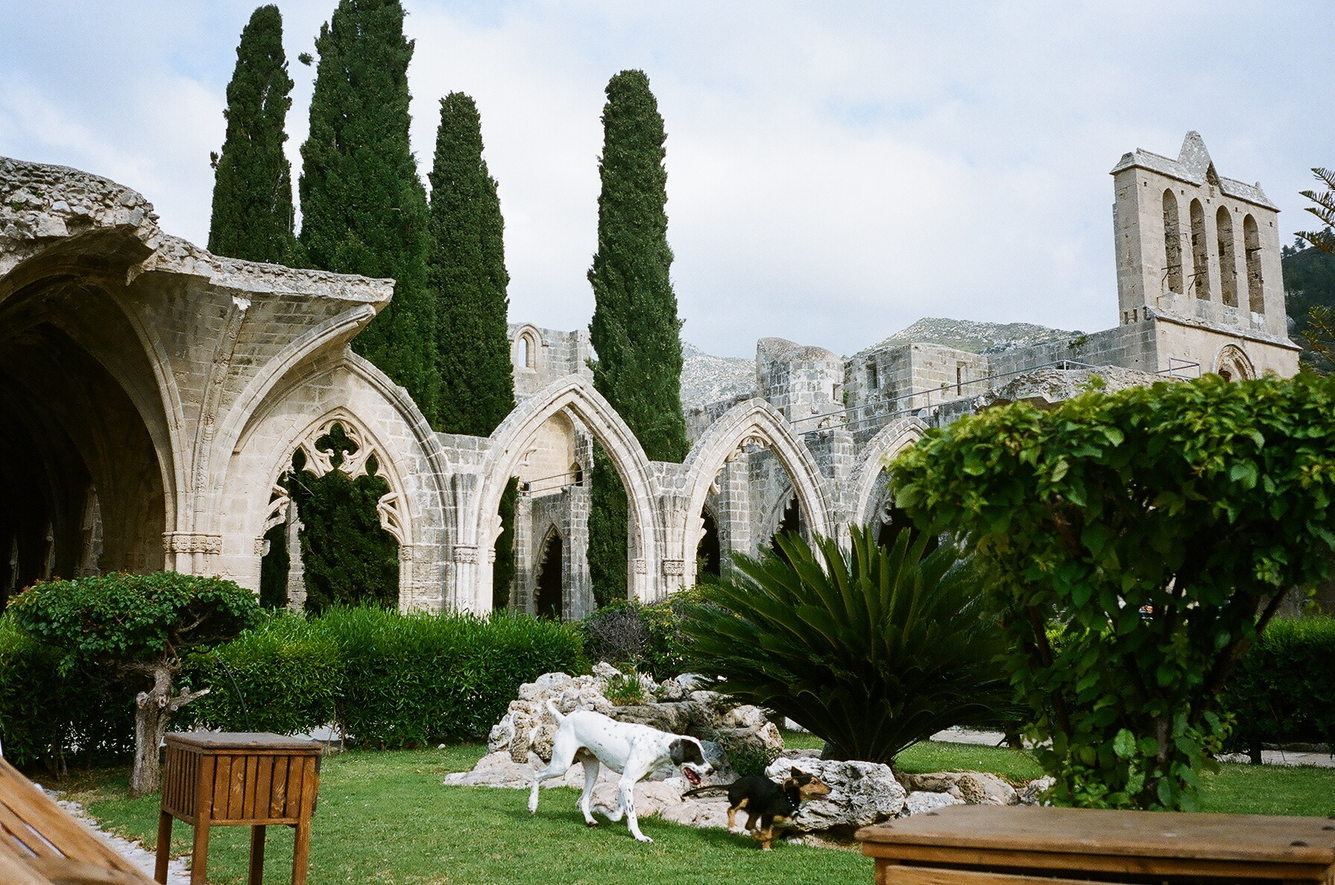
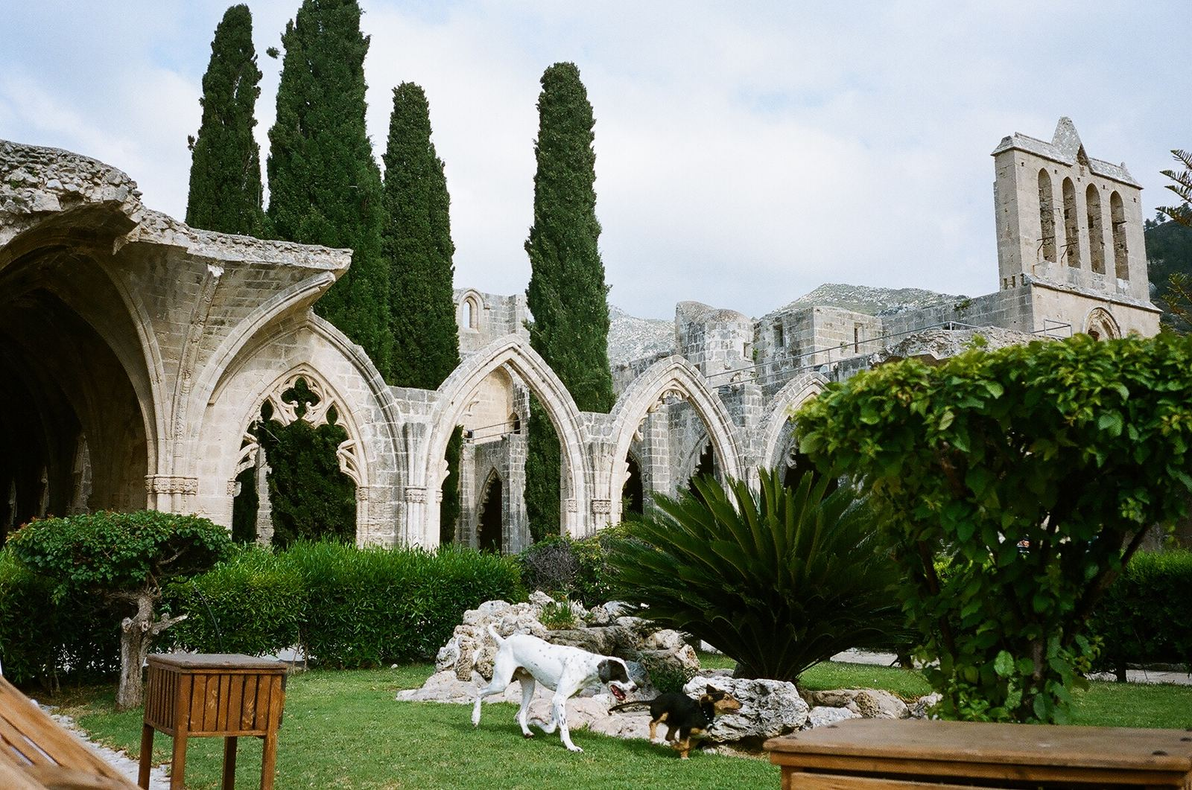
perf: compress oversized images and self-host fonts via next/font
- Resize/recompress hero and strip images (public/images 59 MB -> 4.7 MB)
- Replace render-blocking Google Fonts @import with next/font
- Drop unused script fonts (Pinyon Script, Alex Brush, Allura)

Changed region(s): [[0.2188, 0.7465, 0.25, 0.7776]]

diff --git a/src/app/layout.tsx b/src/app/layout.tsx
@@ -1,9 +1,20 @@
 import type { Metadata } from 'next';
+import { Cormorant_Garamond, Manrope, Great_Vibes } from 'next/font/google';
 import './globals.css';
 import { LanguageProvider } from '@/context/LanguageContext';
 import { Navbar } from '@/components/Navbar';
 import { Footer } from '@/components/Footer';
 import { SITE_URL } from '@/lib/seo';
+
+const cormorant = Cormorant_Garamond({
+  subsets: ['latin', 'latin-ext'],
+  weight: ['300', '400', '500', '600', '700'],
+  style: ['normal', 'italic'],
+  variable: '--nf-cormorant',
+  display: 'swap',
+});
+const manrope = Manrope({ subsets: ['latin', 'latin-ext'], variable: '--nf-manrope', display: 'swap' });
+const greatVibes = Great_Vibes({ subsets: ['latin', 'latin-ext'], weight: '400', variable: '--nf-greatvibes', display: 'swap' });
 
 export const metadata: Metadata = {
   metadataBase: new URL(SITE_URL),
@@ -126,7 +137,7 @@ export default function RootLayout({
   };
 
   return (
-    <html lang="tr">
+    <html lang="tr" className={`${cormorant.variable} ${manrope.variable} ${greatVibes.variable}`}>
       <head>
         <link rel="icon" type="image/jpeg" href="/emineleblebici.jpeg" />
         <link rel="shortcut icon" href="/emineleblebici.jpeg" />

diff --git a/src/app/globals.css b/src/app/globals.css
@@ -1,4 +1,3 @@
-@import url('https://fonts.googleapis.com/css2?family=Great+Vibes&family=Pinyon+Script&family=Alex+Brush&family=Allura&family=Cormorant+Garamond:ital,wght@0,300;0,400;0,500;0,600;0,700;1,300;1,400;1,500;1,600;1,700&family=Manrope:wght@300;400;500;600;700&display=swap');
 
 @tailwind base;
 @tailwind components;
@@ -6,10 +5,10 @@
 
 @layer base {
   :root {
-    --font-cormorant: 'Cormorant Garamond', Georgia, serif;
-    --font-manrope: 'Manrope', -apple-system, BlinkMacSystemFont, 'Segoe UI', Roboto, sans-serif;
-    --font-script: 'Great Vibes', 'Pinyon Script', 'Alex Brush', cursive, sans-serif;
-    --font-calligraphy: 'Great Vibes', 'Pinyon Script', 'Alex Brush', cursive;
+    --font-cormorant: var(--nf-cormorant), Georgia, serif;
+    --font-manrope: var(--nf-manrope), -apple-system, BlinkMacSystemFont, 'Segoe UI', Roboto, sans-serif;
+    --font-script: var(--nf-greatvibes), cursive, sans-serif;
+    --font-calligraphy: var(--nf-greatvibes), cursive;
   }
 
   html {

diff --git a/tailwind.config.js b/tailwind.config.js
@@ -52,10 +52,10 @@ module.exports = {
         },
       },
       fontFamily: {
-        serif: ['"Cormorant Garamond"', 'Playfair Display', 'Georgia', 'serif'],
-        sans: ['Manrope', 'DM Sans', '-apple-system', 'BlinkMacSystemFont', 'sans-serif'],
-        script: ['"Great Vibes"', '"Pinyon Script"', '"Alex Brush"', 'cursive', 'sans-serif'],
-        calligraphy: ['"Great Vibes"', '"Pinyon Script"', '"Alex Brush"', 'cursive'],
+        serif: ['var(--nf-cormorant)', 'Playfair Display', 'Georgia', 'serif'],
+        sans: ['var(--nf-manrope)', 'DM Sans', '-apple-system', 'BlinkMacSystemFont', 'sans-serif'],
+        script: ['var(--nf-greatvibes)', 'cursive', 'sans-serif'],
+        calligraphy: ['var(--nf-greatvibes)', 'cursive'],
       },
       letterSpacing: {
         'widest-editorial': '0.22em',
